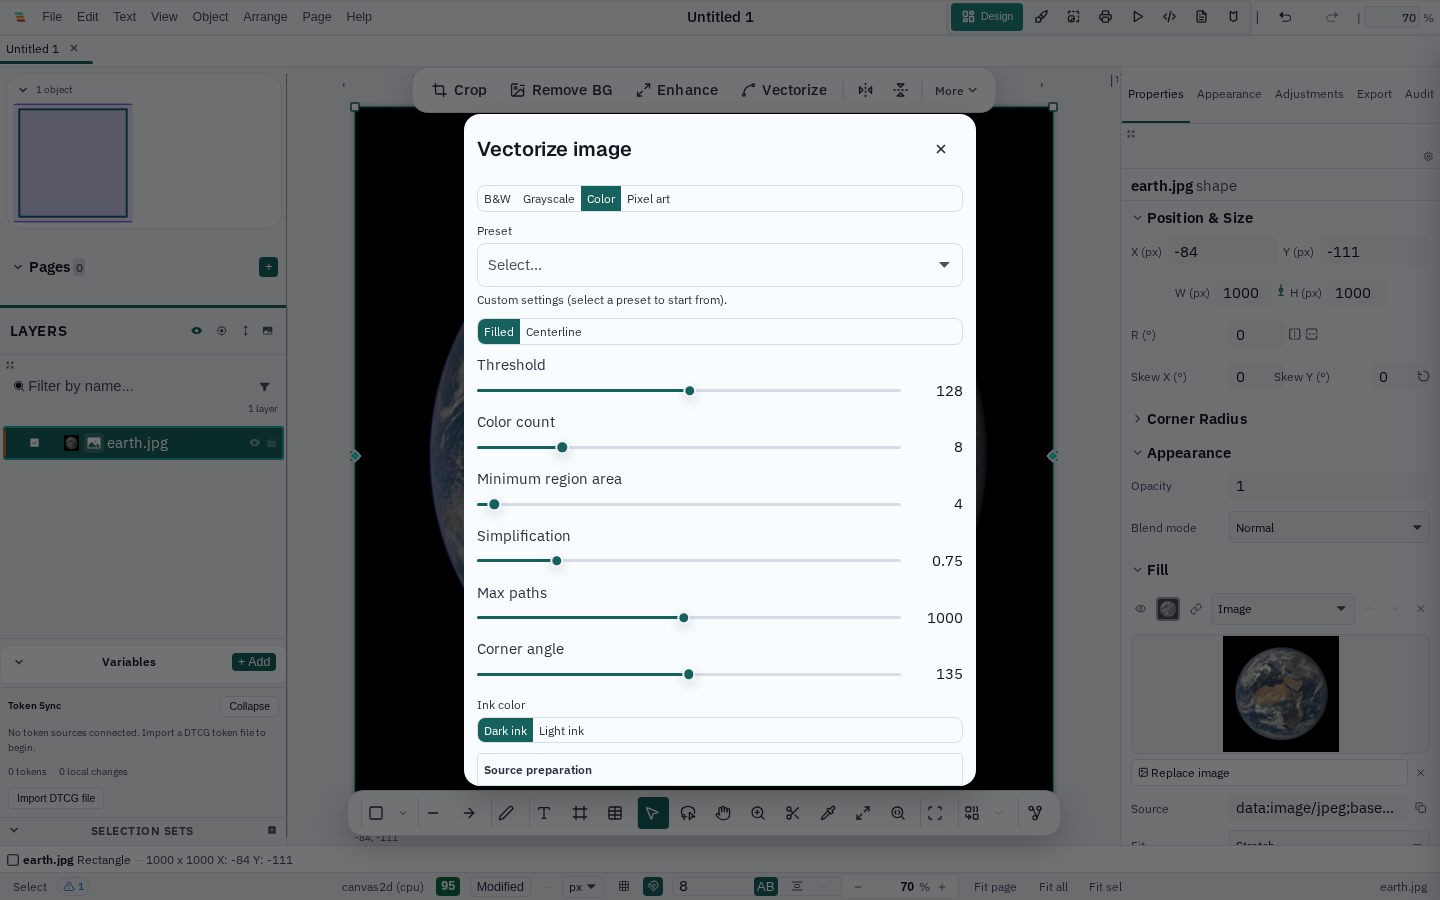
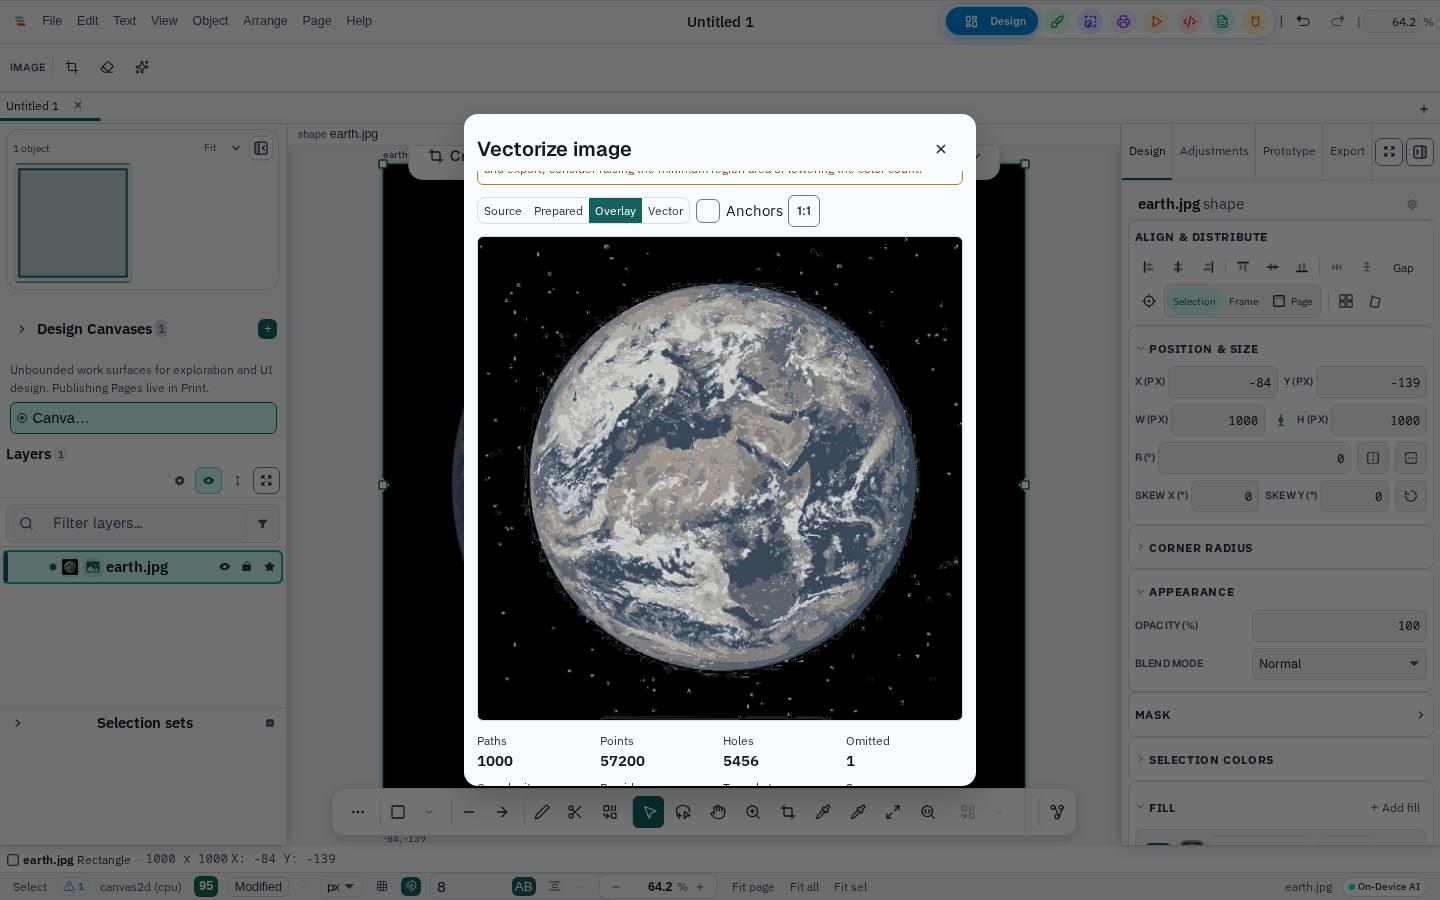
test(trace): add pixel-level preview, re-trace, and cancel coverage
- E2E asserts the preview canvas renders committed paint (ring opaque, hole
  and removed background transparent) and does not change with the UI theme;
  re-trace restores the preparation stack and reports the real provider;
  cancel/resume and review captures are covered. Full spec: 8 passed.
- The vectorize product capture waits for settled diagnostics, scrolls the
  preview into frame, and the reviewed image plus honest alt/caption are
  synced to the website.
- Audit records the validation evidence and the HMR churn workaround.

diff --git a/tests/e2e/canvas/image-trace.spec.ts b/tests/e2e/canvas/image-trace.spec.ts
@@ -197,4 +197,178 @@ test.describe('Image Trace', () => {
     const item = page.getByRole('menuitem', { name: /Vectorize Image/i });
     await expect(item).toBeDisabled();
   });
+
+  test('preview shows committed geometry: holes transparent, artwork theme-independent', async ({
+    page,
+  }) => {
+    await importTestImage(page);
+    await openMenu(page, 'Object');
+    await page.getByRole('menuitem', { name: /Vectorize Image/i }).click();
+    await page
+      .getByRole('dialog')
+      .getByText(/Preset/i)
+      .waitFor({ timeout: 10000 });
+    await page.locator('.vectorize__diagnostics').waitFor({ timeout: 20000 });
+
+    const choosePreviewView = (label: string) =>
+      page
+        .getByRole('radiogroup', { name: 'Preview view' })
+        .getByText(label, { exact: true })
+        .click();
+
+    // 1:1 zoom makes canvas device pixels correspond to prepared-source pixels.
+    await page.getByRole('button', { name: '1:1' }).click();
+    await choosePreviewView('Vector');
+
+    const sample = () =>
+      page.evaluate(() => {
+        const canvas = document.querySelector('.vectorize__preview-canvas') as HTMLCanvasElement;
+        const ctx = canvas.getContext('2d');
+        if (!ctx) throw new Error('no 2d context');
+        const cssWidth = Number.parseFloat(canvas.style.width) || canvas.width;
+        const ratio = canvas.width / cssWidth;
+        const at = (x: number, y: number) => {
+          const d = ctx.getImageData(Math.round(x * ratio), Math.round(y * ratio), 1, 1).data;
+          return [d[0], d[1], d[2], d[3]] as [number, number, number, number];
+        };
+        return { ring: at(80, 30), center: at(80, 80), outside: at(4, 4) };
+      });
+
+    const vector = await sample();
+    // The ring is committed paint; the donut hole and removed background stay
+    // transparent (closed hole subpaths + evenodd fill).
+    expect(vector.ring[3]).toBeGreaterThan(200);
+    expect(vector.center[3]).toBe(0);
+    expect(vector.outside[3]).toBe(0);
+
+    // Switching the UI theme must not change committed artwork colors.
+    await page.evaluate(() => document.documentElement.setAttribute('data-theme', 'dark'));
+    await choosePreviewView('Overlay');
+    await choosePreviewView('Vector');
+    const dark = await sample();
+    expect(dark.ring).toEqual(vector.ring);
+    expect(dark.center[3]).toBe(0);
+    await page.evaluate(() => document.documentElement.removeAttribute('data-theme'));
+  });
+
+  test('Edit Trace restores the preparation stack and records the real provider', async ({
+    page,
+  }) => {
+    await importTestImage(page);
+    await openMenu(page, 'Object');
+    await page.getByRole('menuitem', { name: /Vectorize Image/i }).click();
+    await page
+      .getByRole('dialog')
+      .getByText(/Preset/i)
+      .waitFor({ timeout: 10000 });
+    await page.locator('.vectorize__diagnostics').waitFor({ timeout: 20000 });
+
+    const providerCell = page
+      .locator('.vectorize__diagnostics div')
+      .filter({ hasText: 'Provider' })
+      .locator('dd');
+    await expect(providerCell).toHaveText(/-trace$/);
+
+    // Change a preparation setting; v2 metadata must restore it on Edit Trace.
+    // The checkbox lives inside a scrolled dialog section; dispatch the click
+    // on the input itself so the assertion is about metadata, not scrolling.
+    await page.locator('summary').filter({ hasText: 'Source preparation' }).click();
+    await page.waitForTimeout(400);
+    await page
+      .getByRole('checkbox', { name: 'Binary threshold before tracing' })
+      .evaluate((element) => (element as HTMLInputElement).click());
+    await expect(
+      page.getByRole('checkbox', { name: 'Binary threshold before tracing' }),
+    ).toBeChecked();
+    await page.locator('.vectorize__diagnostics').waitFor({ timeout: 20000 });
+
+    await page.getByRole('button', { name: 'Apply trace' }).click();
+    await expect(page.getByText(/Inserted \d+ vector path/)).toBeVisible({ timeout: 20000 });
+    await page.getByRole('button', { name: 'Close dialog' }).first().click({ timeout: 5000 });
+    await page.waitForTimeout(300);
+
+    const canvas = page
+      .locator('.editor-shell__main canvas, .editor-canvas canvas, canvas')
+      .first();
+    await canvas.dispatchEvent('contextmenu');
+    const editTrace = page
+      .locator('.varve-ctxmenu')
+      .locator('[role="menuitem"], button')
+      .filter({ hasText: /Edit Trace/i })
+      .first();
+    await editTrace.waitFor({ timeout: 8000 });
+    await editTrace.evaluate((element) => (element as HTMLButtonElement).click());
+    await page.locator('.vectorize__diagnostics').waitFor({ timeout: 20000 });
+
+    await expect(providerCell).toHaveText(/-trace$/);
+    await page.locator('summary').filter({ hasText: 'Source preparation' }).click();
+    await expect(
+      page.getByRole('checkbox', { name: 'Binary threshold before tracing' }),
+    ).toBeChecked();
+    await page.keyboard.press('Escape');
+    await page.waitForTimeout(300);
+  });
+
+  test('preview can be cancelled and resumes when settings change', async ({ page }) => {
+    await importTestImage(page);
+    await openMenu(page, 'Object');
+    await page.getByRole('menuitem', { name: /Vectorize Image/i }).click();
+    await page
+      .getByRole('dialog')
+      .getByText(/Preset/i)
+      .waitFor({ timeout: 10000 });
+    await page.locator('.vectorize__diagnostics').waitFor({ timeout: 20000 });
+
+    await page.getByRole('button', { name: 'Cancel' }).click();
+    await expect(page.getByText('Preview appears here')).toBeVisible({ timeout: 5000 });
+
+    // A settings change restarts the debounced preview without document writes.
+    const threshold = page.getByRole('slider', { name: 'Threshold' });
+    await threshold.focus();
+    await threshold.press('ArrowRight');
+    await page.locator('.vectorize__diagnostics').waitFor({ timeout: 20000 });
+  });
+
+  test('captures preview review screenshots', async ({ page }, testInfo) => {
+    await importTestImage(page);
+    await openMenu(page, 'Object');
+    await page.getByRole('menuitem', { name: /Vectorize Image/i }).click();
+    await page
+      .getByRole('dialog')
+      .getByText(/Preset/i)
+      .waitFor({ timeout: 10000 });
+    await page.locator('.vectorize__diagnostics').waitFor({ timeout: 20000 });
+
+    const dir = path.join('reports', 'trace-review');
+    fs.mkdirSync(dir, { recursive: true });
+    const dialog = page.getByRole('dialog');
+    const preview = page.locator('.vectorize__preview');
+    const choosePreviewView = (label: string) =>
+      page
+        .getByRole('radiogroup', { name: 'Preview view' })
+        .getByText(label, { exact: true })
+        .click();
+    const capture = async (name: string) => {
+      await preview.scrollIntoViewIfNeeded();
+      await page.waitForTimeout(250);
+      await dialog.screenshot({ path: path.join(dir, name) });
+    };
+    await capture('preview-overlay-light.png');
+
+    await choosePreviewView('Vector');
+    await page
+      .getByRole('checkbox', { name: 'Anchors' })
+      .evaluate((element) => (element as HTMLInputElement).click());
+    await expect(page.getByRole('checkbox', { name: 'Anchors' })).toBeChecked();
+    await capture('preview-vector-anchors-light.png');
+
+    await page.evaluate(() => document.documentElement.setAttribute('data-theme', 'dark'));
+    await choosePreviewView('Prepared');
+    await choosePreviewView('Vector');
+    await capture('preview-vector-dark.png');
+    await page.evaluate(() => document.documentElement.removeAttribute('data-theme'));
+
+    // Keep the evidence path in the HTML report.
+    await testInfo.attach('trace-preview-dir', { body: dir, contentType: 'text/plain' });
+  });
 });

diff --git a/docs/audits/image-trace-preview-fidelity-2026-09-14.md b/docs/audits/image-trace-preview-fidelity-2026-09-14.md
@@ -68,26 +68,37 @@ failure-mode evidence: `docs/agents/trace-research-2026-09-13.md`.
 
 ### Browser E2E (`tests/e2e/canvas/image-trace.spec.ts`)
 
-New coverage added; results recorded in the session report (the machine was
-under concurrent-agent load during this session, so runs are repeated until a
-representative pass is obtained):
+Full chromium run (2026-09-14, watcher-free dev server, single worker):
+**8 passed, 0 failed, 3.2m** — menu trace + single undo, pixel-art preset,
+Edit Trace re-open/replace, honest disabled state, pixel-level preview
+fidelity/theme independence, prep restore + provider reporting, cancel/resume,
+review captures.
 
-- Pixel-level preview check: ring paint opaque, donut hole alpha 0, removed
-  background alpha 0, colors unchanged after switching `data-theme` to dark.
-- Edit Trace: provider cell reports the real `*-trace` provider and the
-  preparation stack (binary threshold) is restored.
-- Cancel: preview returns to idle and restarts on the next settings change.
-- Review screenshots written to `reports/trace-review/` (overlay-light,
-  vector+anchors-light, vector-dark) and inspected before publishing.
+Notes on method and environment:
+
+- A watcher-free dev server was used because concurrent agents editing tracked
+  source files triggered Vite HMR full reloads mid-test (captured in
+  `test-results/`: the editor reopened with the dialog closed). This is an
+  environment property, not an application defect. The temporary config was
+  removed after the run.
+- The pixel check samples the preview canvas at 1:1 zoom: ring paint alpha
+  > 200, donut-hole alpha 0, removed-background alpha 0, and identical RGB
+  after `data-theme="dark"` + redraw.
+- Review screenshots (`reports/trace-review/`) were inspected: Vector view
+  shows cubic edges, a transparent hole, and anchor/handle overlay; the dark
+  theme changes only the chrome.
 
 ### Visual evidence
 
 Captures are generated by the product screenshot pipeline
 (`pnpm screenshots:product -- --scenes vectorize --strict --review-dir
 reports/trace-review`) and inspected before `--sync-reviewed` republishes the
-website image. The pre-fix pipeline could capture an unscaled, opaque raster
-that hid the vector result; the new capture is taken after
-`.vectorize__diagnostics` renders, so it shows the settled preview.
+website image. The capture waits for settled diagnostics and scrolls the
+preview into frame; the reviewed PNG shows the colour-mode overlay preview of
+the earth fixture with diagnostics (1000 paths / 57,200 points / 5,456 holes /
+1 omitted) on the 1000×1000 source, and was then synced to
+`docs/screenshots/product/` + `apps/website/public/screenshots/` with updated
+alt text and caption.
 
 ## Remaining limitations (not silently claimed as solved)
 
